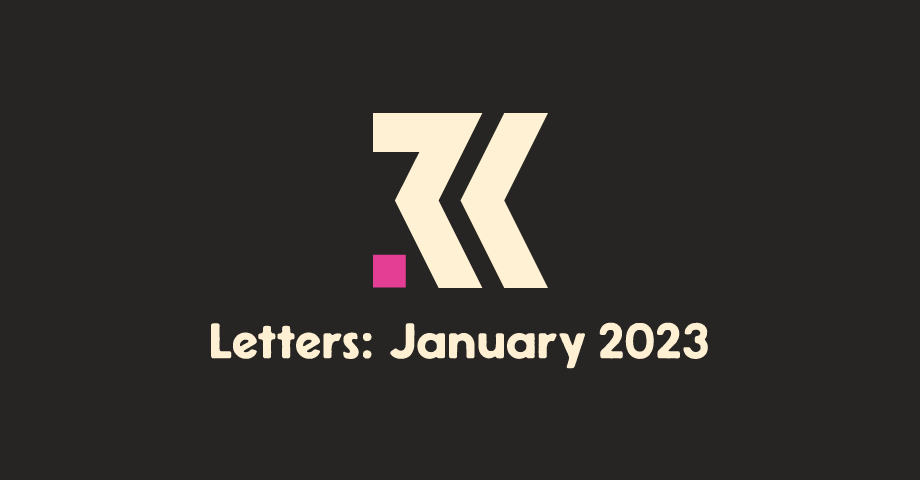
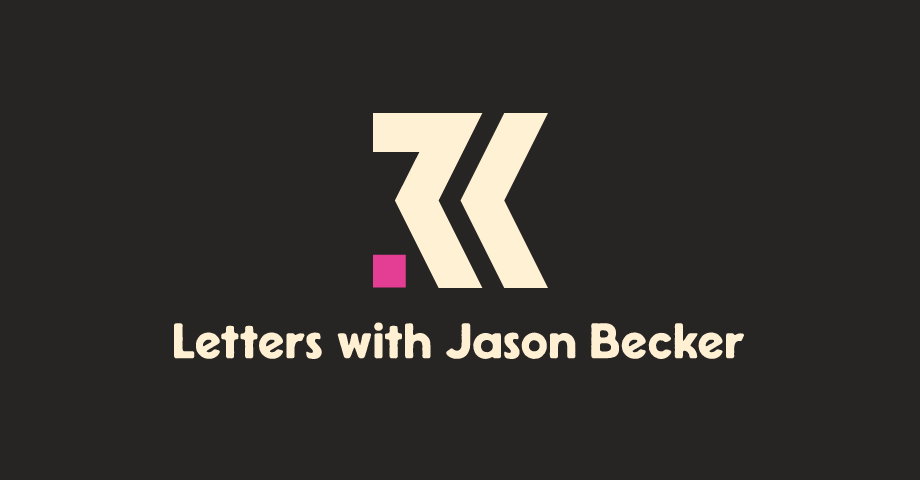
Letters with Kev

Changed region(s): [[0.1826, 0.6562, 0.8217, 0.7812]]

diff --git a/src/posts/2023/2023-12-30-letters-with-kev-quirk.md b/src/posts/2023/2023-12-30-letters-with-kev-quirk.md
@@ -1,0 +1,234 @@
+---
+title: Letters with Kev Quirk
+permalink: /blog/letters-with-kev-quirk/index.html
+date: 2023-12-30T23:24:40.599Z
+excerpt: "I emailed with Kev during December as part of his PenPals project"
+layout: post
+tags:
+    - Letters
+    - OpenWeb
+---
+
+Just as I started the year writing back and forth [with Jason Becker](/blog/letters), this month I was part of [Kev's PenPals project](https://kevquirk.com/penpals). This is the conversation we had covering all kinds of topics including Christmas food, weddings, and [POSSE](https://indieweb.org/POSSE). You can see Kev's [post about this conversation here](https://kevquirk.com/penpals/robb-knight).
+
+---
+
+### 1st December
+
+Hey Robb,
+
+Hope you're doing well? Thanks for agreeing to be my PenPal for December - I'm looking forward to getting to know you better. With Christmas coming up, I don't know how much opportunity we will have to email one another, but I hope it works out. If nothing else, we should have plenty to talk about. :-)
+
+No point in beating around the bush...let's dive right in, shall we? Can you tell me a little bit about yourself please? I've been doing a bit of cyber stalking to see what I can learn about you, I don't know why, but I thought you were American. Looking at your Social.lol page it seems you're in Portsmouth? Being in the same timezone should make emailing a little easier.
+
+I also see that you got married recently. Congratulations! My and I got married around 3.5 years ago, in the summer before the pandemic hit. We've been together for, like 16 years now I think, and we never really intended to get married. We decided to once we made the decision the adopt - we figured it would be less confusing for the kids if we all had the same surname. 🤷♂
+
+Romance is not dead in the Quirk household!
+
+OK, I've held off long enough...please please please tell me about [your site](https://rknight.me). I LOVE the design of it. The colours, the typography, the subtle texture on the background. It's just lovely. What are you using at the backend?
+
+I notice you're using [social.lol](https://home.omg.lol) too; have you ever thought about using their platform to host your site? I have an account there too, more to explore it than anything else. The sheer number of services available for the price is great value, and they're always adding new stuff. I think if I ever left [Fosstodon](https://fosstodon.org), I'd probably switch to their Mastodon instance.
+
+I think this is more than enough to get us started. Looking forward to your reply.
+
+Kev
+
+---
+
+### 1st December
+
+Hi Kev,
+
+Firstly, this is a nice bookend to the year because I started January with a similar project with [Jason Becker](https://json.blog/letters/).
+
+You are right that I'm in Portsmouth. I was born here, then lived for most of my school years in Southampton, and moved back here afterwards. I work as a developer for a property software company here in Portsmouth. I live with my wife, cat, and nearly-nine month old daughter. We were _supposed_ to get married in September 2020 but because of _the event_ we moved it to May 2021. Then the restrictions made it difficult to have the day we wanted we decided to move house instead and so we got married this year. I would not recommend having a baby and getting married in the same year 😅
+
+To your point about getting married for more "practical" reasons, we totally get that - if we'd been able to get deposits back from various vendors we may have gone for the cheaper registry office wedding instead of what we had. That said we had a great day even if it was the hottest day of the year.
+
+Now, to the real questions: my website. We've crossed paths _just_ as I pushed a new design. My previous design I had for a couple of years (which is [archived here](https://2023.rknight.me)) and as much as I loved it, the "boxy" design was pushing me into a corner where I was struggling to make big changes to layouts so I knew I wanted a new design but I didn't know _what_ I wanted. Until I saw the [Cartridge font from Simplebits](https://simplebits.shop/collections/fonts/products/cartridge) and I knew I wanted a site that was reminiscent of the Atari 2600-type designs from the game covers.
+
+Speaking of design, a friend and I were discussing monogram logos recently and how we have awkward letters to make a nice monogram with. Then I remembered yours and showed it to her and she was _furious_ at how good it is. I love it.
+
+I'm using [Eleventy](https://www.11ty.dev) for my site hosted on Digital Ocean and have done for maybe five years. I love the flexibility it gives me to pull in data from a bunch of different sources and manipulate it however I want. It's what I use for most of my side projects if I can. I'm a big fan of using as little as possible to build websites; if I can avoid a database or javascript, I will. Speaking of which, I recently used simple.css on a project and it saved me a lot of time so thanks for that.
+
+How do you like Kirby? I saw your post about the custom forms for the penpals project and it looks like an excellent CMS but I've not had occasion to use it.
+
+As for hosting my site on omg.lol I don't use it for similar reasons that you mentioned for not using micro.blog: I want _a lot_ more control over everything I can. I like to automate things, like [my now page](https://rknight.me/automating-my-now-page/), and generally be able to control as much as I can with my own code. Weblog.lol is an excellent blogging platform, but it's not for me. I _do_ swear by social.lol as an instance though: I've been burned twice by instances (one Mastodon and one Lemmy) just shutting down overnight and not being able to export my data. I need to be on an instance where I know who's running it and that I can pay money to so that instance continues to run.
+
+I can talk about open web protocols until the cows come home so I'll stop for now.
+
+Speak soon,  
+Robb
+
+---
+
+### 3rd December
+
+Hey Robb,
+
+Thanks for the reply. I originally said in the first post that I'd exchange 1 email per week with my PenPal, but if you're happy with whatever cadence suite our schedule at the time (i.e. we just email back and forth whenever it suits) I'm good with that if you are?
+
+Young children seem like such hard work. Our boys are adopted - we decided early on in our relationship that we didn't want kids, but later decided that we wanted a family, but still didn't feel the need to have biological kids, so we decided to adopt - anyway, I digress...our kids are adopted and they came home when they were 5 and 2, so we never experienced the baby part of bringing up kids. Which feels like a double edge sword; on the one hand, se dodged all the long nights etc. but on the other, we missed out on making that early bond with them. So simultaneously envy and don't envy you. :)
+
+Ah, don't get me started on how expensive weddings are. My wife and I decided early on that we wanted to keep it small, so we set the budget at £10k (_ten thousand pounds_ for a **single** day!) and so we started looking at venues. Slowly but surely the budget began to creep up until we were having conversations about £30k weddings.
+
+Luckily we both saw sense, reeled it back in and ended having a lovely wedding for around the original budget. Pissed it down the whole day though haha.
+
+You previous "boxy" design is quite similar to the design I have now on my site, actually. I've considered using the `box-shadow` on things like cards etc. but decided against over-using them and just having them on buttons instead.
+
+The Cartridge font is really nice - and not obnoxiously priced like many fonts. I've never heard of Simplebits before - they have some great fonts, and all seem to be very reasonably priced.
+
+Thanks for the kind words about my monogram. I'm really happy with how it turned out, but I suppose K & Q are easy to put together in this way.
+
+I'm similar to you - I prefer to use no JavaScript on my site. I've been thinking about introducing a colour switcher so it doesn't only rely on `prefers-color-scheme` so would need to introduce some JS for that, but I'm still on the fence. I used Jekyll when this site was on an SSG, but did consider a move to 11ty more than once. I'll definitely use it on a project at some point.
+
+I'm really enjoying Kirby. Like _really_ enjoying it. I always liked WP, but the sheer amount of noise in the control panel frustrated me. Kirby is really bare bones by default, and allows you to build panels that make sense to you.Once you have it nailed, it's like having a custom build CMS, just for you. And because it's not DB driven, if I want to create content in a text editor, I can do that too. It's so flexible, I really love it.
+
+I'm with you on the omg.lol thing. I think it's a great out-of-box solution for someone who's just getting started, or someone who doesn't want to manage their own site. I'm going to be penpalling (is that even a word?) with [Gabz](https://gabz.blog) in June; he used omg.lol for his blog for a while, so I'll be interested to hear what he says about it.
+
+Oof this is SUCH a long email already, but I'd love to talk about open protocols too, so I'll just bullet out some of my thoughts and we can dig into them more (along with your thoughts) in our next exchange:
+
+*   I think ActivityPub has the potential to be _great_ but I wonder how well it will scale. Fosstodon only has like 60k users and it's really expensive to run already. Goodness knows what it must cost Eugen to run .social
+*   If I were ever to run my own instance, I think I'd go with GoToSocial, as it seems to be quite lightweight and it supports most of the spec
+*   I don't understand why BlueSky tried to re-invent the wheel? Why not just on the AP bandwagon?
+*   I don't think Threads will ever support AP - that's just a pipedream
+*   I used to run the IndieWeb stack on my site, but it's so convoluted to plug it all together, that I decided to abandon it. I think if it's ever going to gain traction, there needs to be either a hosted solution that supports it natively, or it needs to be hugely simplified
+
+Anyway, this email ended up being WAY longer than I intended it to be. Sorry about that. Looking forward to hearing your thoughts on the open protocols.
+
+Kev
+
+---
+
+### 10th December
+
+Hey Kev,
+
+Firstly, our wedding came out around the same price as yours and that was considered "cheap" in comparison to some of my friends. I try not to think about the money and just remember the day which was wonderful.
+
+I'm looking forward to seeing what you and Gabz talking about, he's a great guy.
+
+Now onto the meaty stuff: open protocols.
+
+> Fosstodon only has like 60k users and it's really expensive to run
+
+This was one of the reasons I built [Bugle](https://bugle.lol/) - I wanted something I could run easily on my server to create accounts for little side projects and such., Even for a single user who has a few hundred followers, or uploads a lot of photos, it can get expensive quick with Mastodon. The way it handles files and the duplication that happens is a huge problem in getting smaller instances up and running and probably why we see so many users on the main four or five instances. Building Bugle did give me a good insight into how a lot of the protocols work but it's _hard_. The lack of documentation, or more specifically, examples of how the spec should work make it difficult. The developer of Pixelfed, Dan, was incredibly helpful in pointing me in the right direction for things I was stuck on.
+
+How do you find running an instance with that many users? Does moderation take up a lot of time or is it generally pretty good for Fosstodon?
+
+I hadn't heard of GoToSocial until you mentioned it but that looks much closer to what I was trying to achieve with Bugle and I"m adding that to my list to investigate. I don't have much to say on BlueSky or Threads, neither of them interest me if they don't support AP so I don't pay them much attention (although I do have accounts on both). The one thing I do like with Bluesky is the domain-as-a-username. That is something that does excite me and I know Mastodon has talked about implementing something similar in the future.
+
+I agree with you on the IndieWeb stuff, I've implemented webventions and recently some other metadata-type things, but like AP it just doesn't feel like it's that well documented. [IndieKit](https://getindiekit.com/) looks promising in that it's runs separately from your site and handles all the IndieWeb stuff one might need. It doesn't have everything yet but it's one to keep an eye on.
+
+We are now just about two weeks from Christmas, how are you plans coming along for the day?
+
+Speak soon,  
+Robb
+
+---
+
+### 12th December
+
+Hey Robb,
+
+It's crazy how expensive weddings can get. My sister-in-law is married to an Indian and they had a traditional Indian wedding, with a TONNE of people. I dread to think how much theirs cost.
+
+Scalability of Mastodon does concern me. The way in which is caches everything from every server/account it's connected to means things spiral quickly. I remember speaking with Hugo, who runs Masto.host, and he said with me having around 26k followers, a single-user instance would be around $50/month just because of the amount of other instances it would have to connect to.
+
+When Mike and I started Fosstodon, we decided early on to go with a hosted solution, as it would be one less thing for us to worry about. Turns out it was the best decision, as I really wouldn't want to be managing the infrastructure myself with so many people relying on it. We've since grown out [the moderation team](https://hub.fosstodon.org/team/) so that Mike and I can take a step back from the moderation stuff and can focus on other things, like dealing with the various parts that make up the service etc.
+
+At the same time, we also decided to go invite-only. Mainly to force people to go to other servers, and we're far bigger than we ever thought we would be, and honestly, it worries me. I don't want to be responsible for the social network of so many people. But also for moderation - previously we were approving every account that signed up, and we moderate heavily. It's a large burden, but it keeps the timeline (I think) clean and friendly. I have a test account on .social and local timeline over there is a hot mess.
+
+I was listening [Ruminate](https://ruminatepodcast.com/) this morning on my way to work; you and Johnny were talking about blog posts vs micro/social posts and what belongs where. Have you ever thought about integrating social with your blog?
+
+I decided that they're 2 different use cases, and I personally dislike it when my RSS feeds contain multiple hot takes per day, as that's not what I want it for - my RSS feeds are for longer form content. I enjoy both hot takes and longer articles, but I have to be in a different frame of mind to consume each, so mangling them both together makes no sense to me.
+
+Ah, Christmas. We're doing ok. There's still a few presents to buy, and a lot to wrap, but we're pretty close, I think. We do things a bit differently on Christmas day. Instead of having a big fancy roast dinner, we cook a simple curry and enjoy that instead. That way, we're not slaving in the kitchen all day and can enjoy the day as a family. Hows about you? You all sorted yet?
+
+Look forward to talking soon.
+
+Kev
+
+---
+
+### 22nd December
+
+Hey Kev,
+
+Been a while since I replied, we've had a hectic week over at the Knight household with illnesses going round everyone.
+
+> Have you ever thought about integrating social with your blog
+
+I think about this _all the time_. I do have a mirror of my Mastodon feed on my site as a sort of backup, but I would like to get to a point of proper [POSSE](https://indieweb.org/POSSE). For that to work for me I really need to be able to post from mobile, which means integrating a CMS of some kind. I'm looking at Kirby as well as Wordpress but also considering building my own. "The developer curse" as I like to call it.
+
+I agree having them in one feed (long posts and short posts) isn't what I'd like from someone else's site so I certainly wouldn't be doing that on mine. I also want to split out some things to services more suited to the media; right now I post photos directly on Mastodon but I think Pixelfed would make a lot more sense for me. They are releasing "Solo", a single-user version of Pixelfed soon so I'll be checking that out as soon as it's available.
+
+As for Christmas we're all sorted now, the food is in the fridge ready, chocolates are scattered around the house in bowls for grabbing as we walk past, and my daughter has met Santa for the first time. This year will be the first time I've cooked for my dad so I'm pulling out all the stops.
+
+If I don't speak to you again before Christmas (because apparently it's only 3 days away 😱) have a good one and I'll speak to you soon.
+
+Robb
+
+---
+
+### 24th December
+
+Hey Robb,
+
+Good to hear from you and hope you and the family are all feeling better now!
+
+Thanks for you help on the [Echo](https://echo.rknight.me) thing - that really helped, but has had the undesired effect of making me explore POSSE again and whether I should start posting "notes" to my blog and have them syndicate to Masto. Problem is, I then go down this rabbit hole of "but I won't have replies..." so then I start looking at webmentions and the whole thing gets so complicated.
+
+I'm also considered adding a bookmarks page to my site. Kinda like a self-hosted read later type thing. Or just a resource that people can use to see what I've found interesting or useful. But I don't know whether I'm going to implement that. If I do, I'll probably switch my about page to my home page, then have my posts served from /blog/ as the site will be far more than just a blog at that point. I dunno what I'll do ultimately, but it's so much fun playing with this stuff.
+
+I see you're looking at [TinaCMS](https://tina.io) - I was keeping an eye on that project when I was running Jekyll. It's looks really good, but was only in beta when I switched, so never explored it further.
+
+You know, we have a distinct lack of chocolate in casa Quirk this year, which is disappointing. I think my wife hasn't bothered because of all the work I've put in losing weight, but I'm happy to put on a few KG over the next couple weeks. I might have to nip the shops for a couple boxes! :)
+
+Cooking Christmas dinner is so much pressure. Good luck cooking for your old man! We tend to have a quiet Christmas, where we don't even have a roast dinner actually. Our tradition is to cook a curry. The kids don't really like roast dinners, so seems silly to spend all day in the kitchen for a meal they won't enjoy.
+
+Anyway, it's the big day tomorrow. Hope you and the family have a great one and that there's no problems with dinner.
+
+Talks soon,
+
+Kev
+
+---
+
+### 30th December
+
+Hey Kev,
+
+Hope your Christmas went well. The cooking for my dad went well, he was very impressed so much so that he said he’s never cooking on Christmas and I have to do every year. I’ll be getting my roast potato recipe up on the blog hopefully tomorrow.
+
+If you subscribe my RSS feed you might have seen a sneak peek at what I plan to build next year, but I’m still torn on bookmarks, POSSE notes, etc. It’s a hard problem to solve or at least come up with something I’m happy with.
+
+I am completely chocolated (and cheesed) out now so we’re back to proper dinners and mealtimes. We have been having bacon and egg sandwiches every morning this week which has been nice treat.
+
+No plans for new years here, I expect we’ll watch some movies and wait until midnight when I’m sure Baby Knight will wake up because of the fireworks. Do you have any fun plans at all?
+
+I guess this will likely be the last exchange for this month’s letters. I’m looking forward to seeing who you’ve got lined up for next year. This has been a lot of fun and I’ll definitely be asking for your opinions on all this POSSE stuff in the next few months as I try and get to grips with it all.
+
+Speak soon,
+
+Robb
+
+---
+
+### 30th December
+
+Hey Robb,
+
+Yeah, Christmas was great thanks. Just very chilled and lots of family time. I still have another week off work, so only halfway through the holiday yet. Sounds like you're on he hook for all the Christmas dinners from now on...no pressure!
+
+I do subscribe to your RSS feed - I'm looking forward to seeing what comes of it all. Personally, I'm still undecided. Integrating notes into the site would be trivial at this point, but I really don't know whether the juice is worth the squeeze.
+
+I've been eating so much crap the last week or so, as I'm writing this very email, I'm chomping on a pack of Kettle chips. 🤦♂ Oh well, I'll get back on the wagon after the holidays.
+
+It's actually my mum's birthday tomorrow, so I'll go up and see her for a few hours, then I think we're going to our neighbours house for a few drink tomorrow evening.
+
+Yeah, this is likely going to be the last exchange. Thanks so much for taking the time to be my PenPal for this last month, it's been great getting to know you better and I'm looking forward to continuing to get to know you better in the future.
+
+Happy new year, and talk soon!
+
+Kev

diff --git a/src/posts/2023/2023-01-28-letters.md b/src/posts/2023/2023-01-28-letters.md
@@ -1,11 +1,12 @@
 ---
-title: "Letters: January 2023"
+title: "Letters with Jason Becker"
 permalink: /blog/letters/index.html
 date: 2023-01-28T00:00:00.000Z
 excerpt: "An idea by Jason Becker involving Jason and myself writing an email to each other every week for a month"
 layout: post
 tags:
   - Letters
+  - DIY
 ---
 
 Letters is a ongoing project by [Jason Becker](https://json.blog/2022/11/28/a-new-project.html) that I was involved in for this month. The what:
